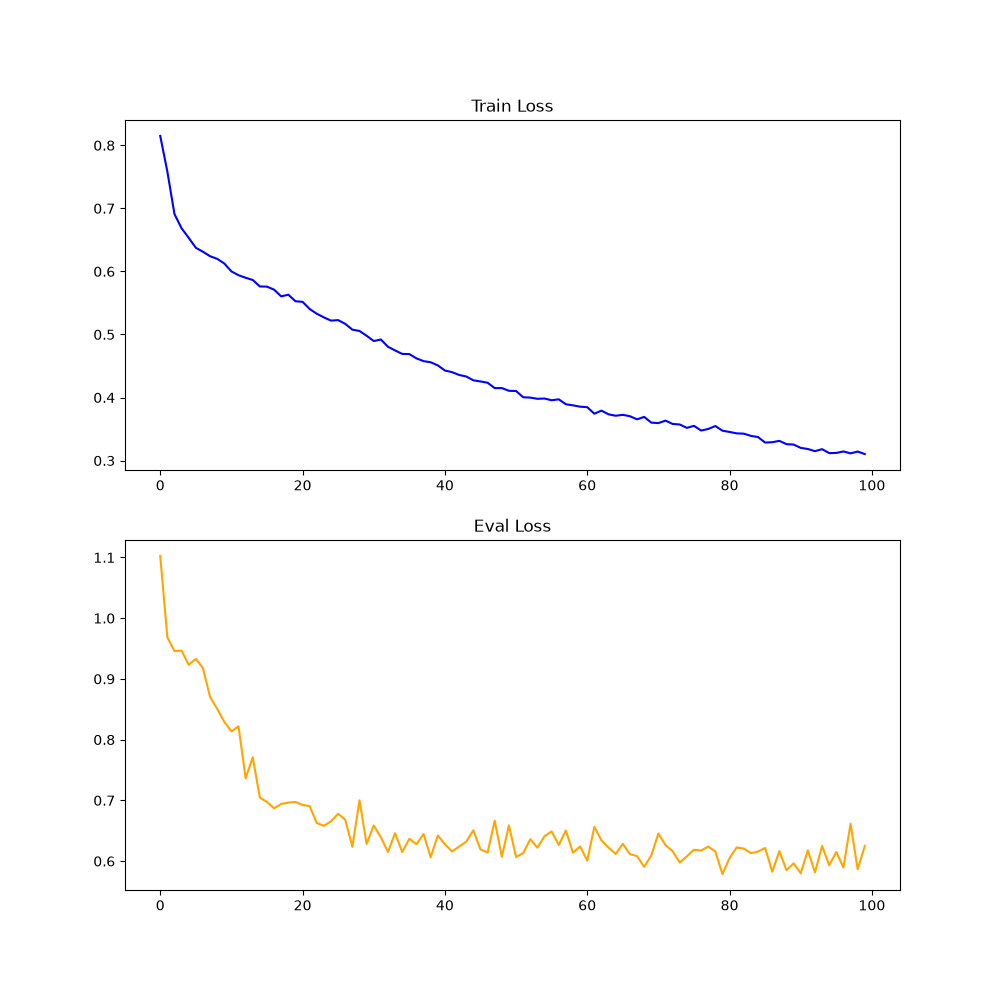
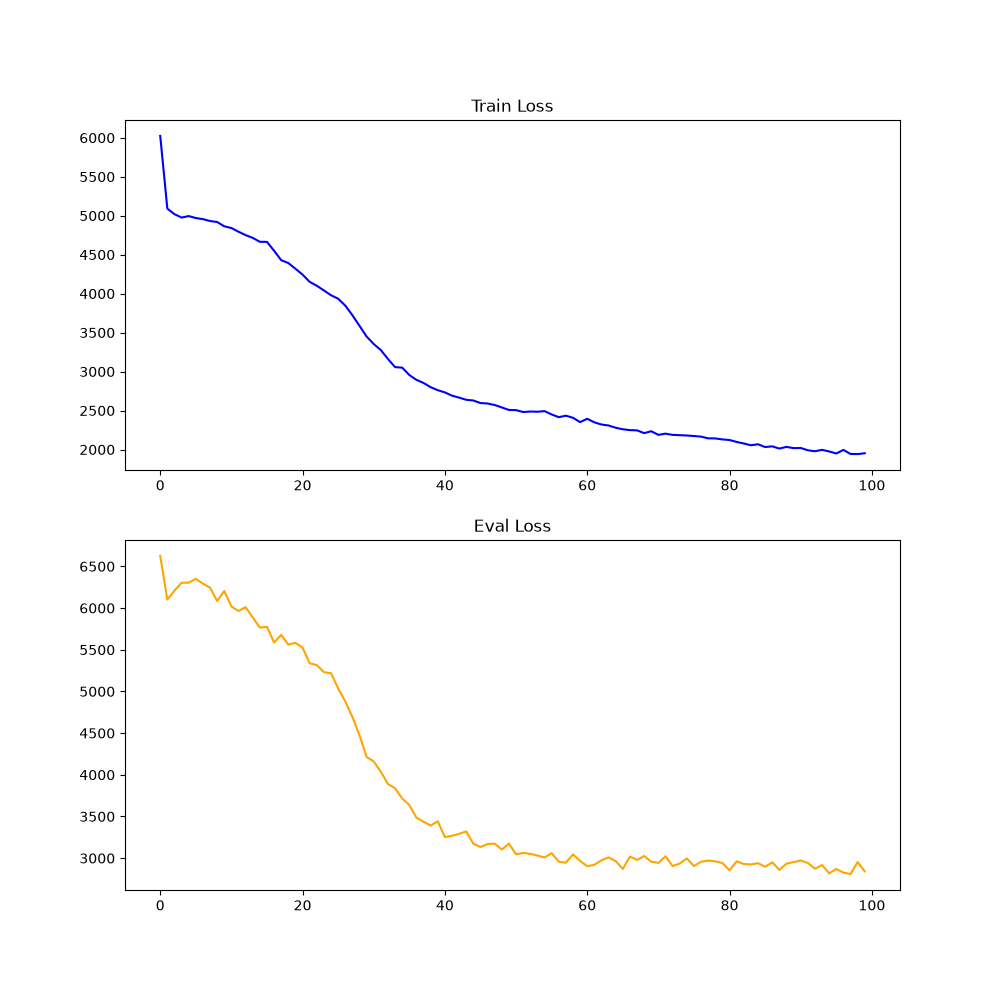
slight changes

diff --git a/utils/setup_data.py b/utils/setup_data.py
@@ -35,12 +35,6 @@ def setup_data(mtp: str, srp: str, steps: int, split: float, device):
         srnt, [split_idx, srnt.shape[0] - split_idx], dim=0
     )
 
-    y_mean = train_Y.mean(0, keepdim=True)
-    y_std = train_Y.std(0, keepdim=True)
-
-    train_Y = (train_Y - y_mean) / y_std
-    val_Y = (val_Y - y_mean) / y_std
-
     srnt_mean = train_srnt.mean(dim=0, keepdim=True)
     srnt_std = train_srnt.std(dim=0, keepdim=True)
     train_srnt = (train_srnt - srnt_mean) / srnt_std
@@ -58,4 +52,4 @@ def setup_data(mtp: str, srp: str, steps: int, split: float, device):
     train_X = train_X.view(train_X.shape[0], steps + 1, -1).flip(1)
     val_X = val_X.view(val_X.shape[0], steps + 1, -1).flip(1)
 
-    return (train_X, train_Y, val_X, val_Y, y_mean, y_std, srnt_mean, srnt_std)
+    return (train_X, train_Y, val_X, val_Y, srnt_mean, srnt_std)

diff --git a/lstm.py b/lstm.py
@@ -27,7 +27,7 @@ WD = 1e-4
 if __name__ == "__main__":
     device = torch.device("cuda" if torch.cuda.is_available() else "cpu")
 
-    train_X, train_Y, val_X, val_Y, y_mean, y_std, x_mean, x_std = setup_data(
+    train_X, train_Y, val_X, val_Y, x_mean, x_std = setup_data(
         MT_PATH, SR_PATH, TIME_STEPS, DATA_SPLIT, device=device
     )
 
@@ -111,6 +111,5 @@ sample = sample.unsqueeze(0).to(device)
 model.eval()
 with torch.no_grad():
     pred = model(sample, None)
-    pred = pred * y_std + y_mean
     print("Predicted motor values for a sample sequence:", pred.squeeze(0))
 

diff --git a/README.md b/README.md
@@ -6,7 +6,14 @@
 - mlp trained to have xyz& prev_points' xyz as inputs and motor_deg as outputs 
 - lstm added ;(
 ## Performance
-![Project Screenshot](overall.png)
+### MLP with prev points
+<img src="mlp_metrics.png" width="350">
+
+### MLP passing only XYZ of 3 points
+<img src="dumb_mlp_metrics.png" width="350">
+
+### LSTM
+<img src="lstm_metrics.png" width="350">
 
 ## Etc
 *notes*: